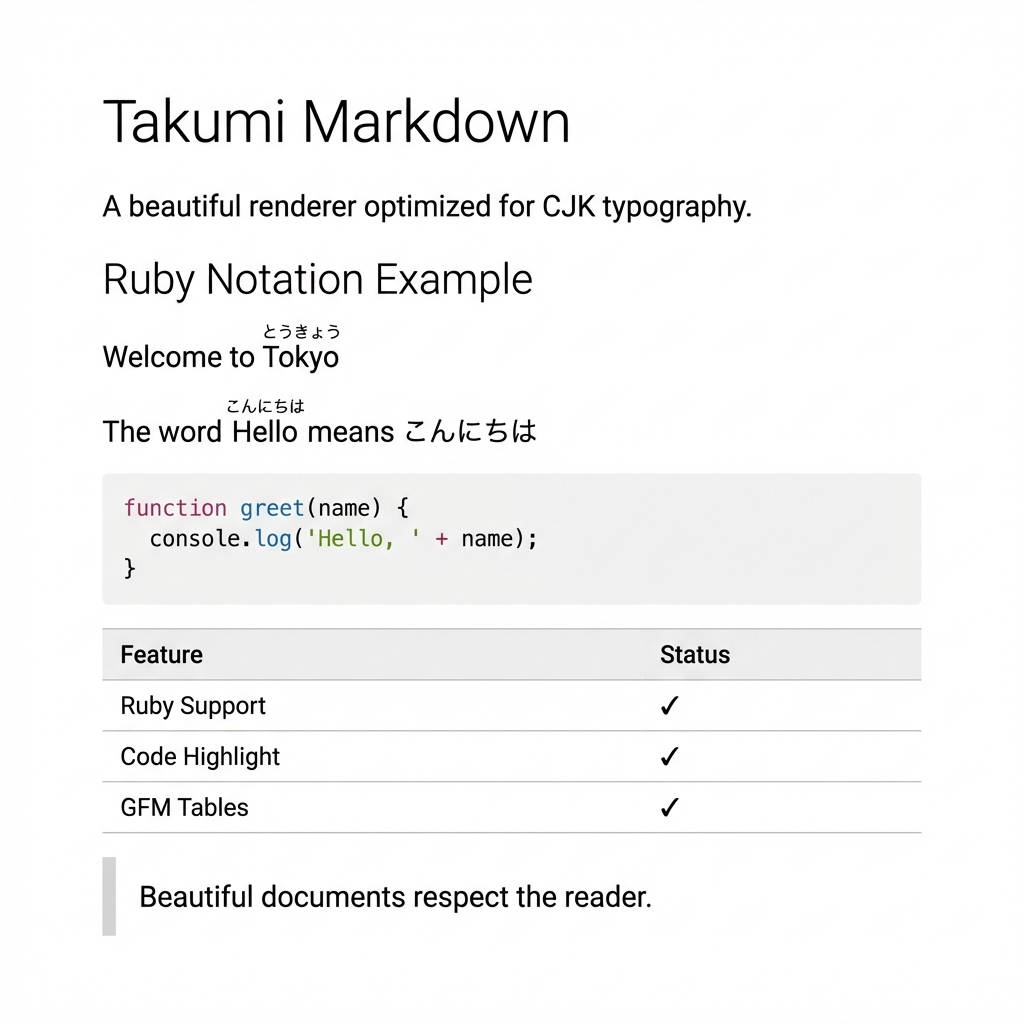
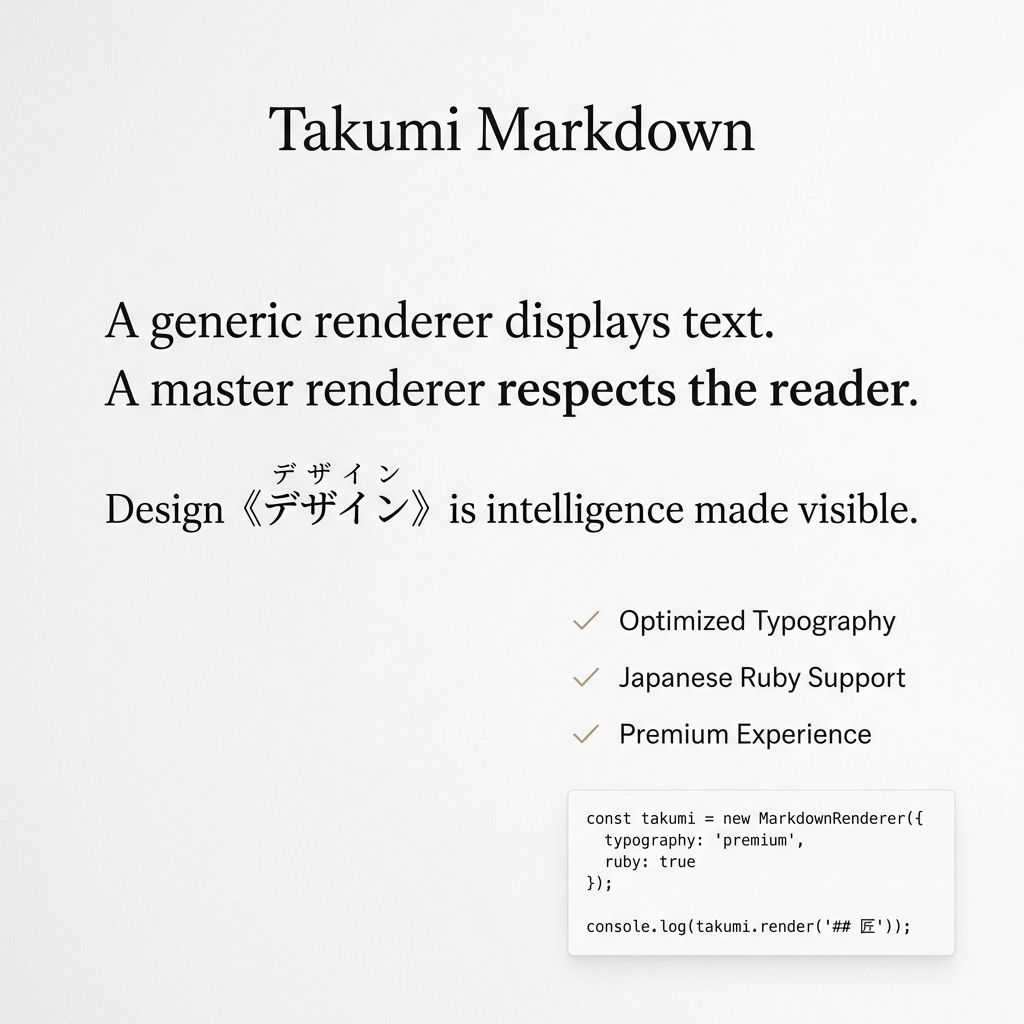
docs: Refine visuals and messaging
- Update preview and comparison images for a premium look
- Add 'Philosophy' section focusing on reading experience
- Rename 'Comparison' to 'Visual Experience' for a more showcase-oriented approach
- Avoid negative framing of standard renderers

diff --git a/README.md b/README.md
@@ -4,24 +4,28 @@
 [![npm downloads](https://img.shields.io/npm/dm/takumi-markdown.svg)](https://www.npmjs.com/package/takumi-markdown)
 [![License: MIT](https://img.shields.io/badge/License-MIT-blue.svg)](https://opensource.org/licenses/MIT)
 
-Beautiful Markdown renderer for React with CJK typography optimization and ruby (furigana) notation support.
+Beautiful Markdown renderer for React, meticulously crafted for CJK (Chinese, Japanese, Korean) typography and readability.
 
 <img src="./assets/preview.png" alt="Takumi Markdown Preview" width="600" />
 
+## Philosophy
+
+Most markdown renderers focus on functionality. Takumi focuses on the **reading experience**.
+We optimize line heights, letter spacing, and font choices to create documents that feel professional and polished by default.
+
 ## Features
 
-- 🎨 **Beautiful Typography** - Optimized for CJK (Chinese, Japanese, Korean) text
-- 📝 **Ruby Notation** - Support for `｜text《ruby》` syntax (小説家になろう/カクヨム style)
-- 📋 **Frontmatter** - YAML frontmatter parsing and display
-- ✨ **GFM Support** - Tables, checkboxes, and more
-- 🎯 **Syntax Highlighting** - Code blocks with highlight.js
+- 🎨 **Premium Typography** - Optimized specifically for Japanese text (C-spacing, P-alt)
+- 📝 **Ruby Support** - Render `｜text《ruby》` syntax beautifully (web novel style)
+- 📋 **Rich Frontmatter** - Clean metadata display
+- ✨ **Modern Standards** - GFM support, syntax highlighting, and responsive tables
 
-## Comparison
+## Visual Experience
 
-<img src="./assets/comparison.png" alt="Comparison with standard renderer" width="700" />
+<img src="./assets/comparison.png" alt="Visual Comparison" width="700" />
 
-> **Left**: Standard Markdown (ruby syntax shown as raw text)  
-> **Right**: Takumi Markdown (ruby rendered as furigana)
+> **Left**: Default rendering (standard typography, raw syntax)  
+> **Right**: Takumi rendering (optimized spacing, rendered rubies, premium feel)
 
 ## Installation
 
@@ -37,15 +41,11 @@ import 'takumi-markdown/styles.css';
 
 function App() {
   const markdown = `
-# Hello World
+# The Art of Text
 
-This is a **beautiful** markdown renderer.
+Words should be beautiful.
 
-## Ruby Notation Example
-
-The protagonist ｜山田太郎《Yamada Taro》 embarked on a journey.
-
-Japanese text with furigana: 漢字《かんじ》
+｜Typography《タイポグラフィ》 matters.
 `;
 
   return <MarkdownRenderer content={markdown} />;
@@ -54,22 +54,12 @@ Japanese text with furigana: 漢字《かんじ》
 
 ## Ruby Notation
 
-Supports ruby (furigana) notation commonly used in Japanese web novels:
+Supports the standard Japanese web novel format:
 
 | Syntax | Description | Result |
 |--------|-------------|--------|
-| `｜text《ruby》` | Explicit delimiter | text with ruby above |
-| `漢字《かんじ》` | Auto-detect kanji | 漢字 with かんじ above |
-
-### Examples
-
-```markdown
-The word ｜hello《こんにちは》 means "hello" in Japanese.
-
-Character names: ｜Alice《アリス》 and ｜Bob《ボブ》
-
-Mixed content: Welcome to 東京《Tokyo》!
-```
+| `｜text《ruby》` | Explicit | text with ruby above |
+| `漢字《かんじ》` | Auto-detect | 漢字 with かんじ above |
 
 ## API
 
